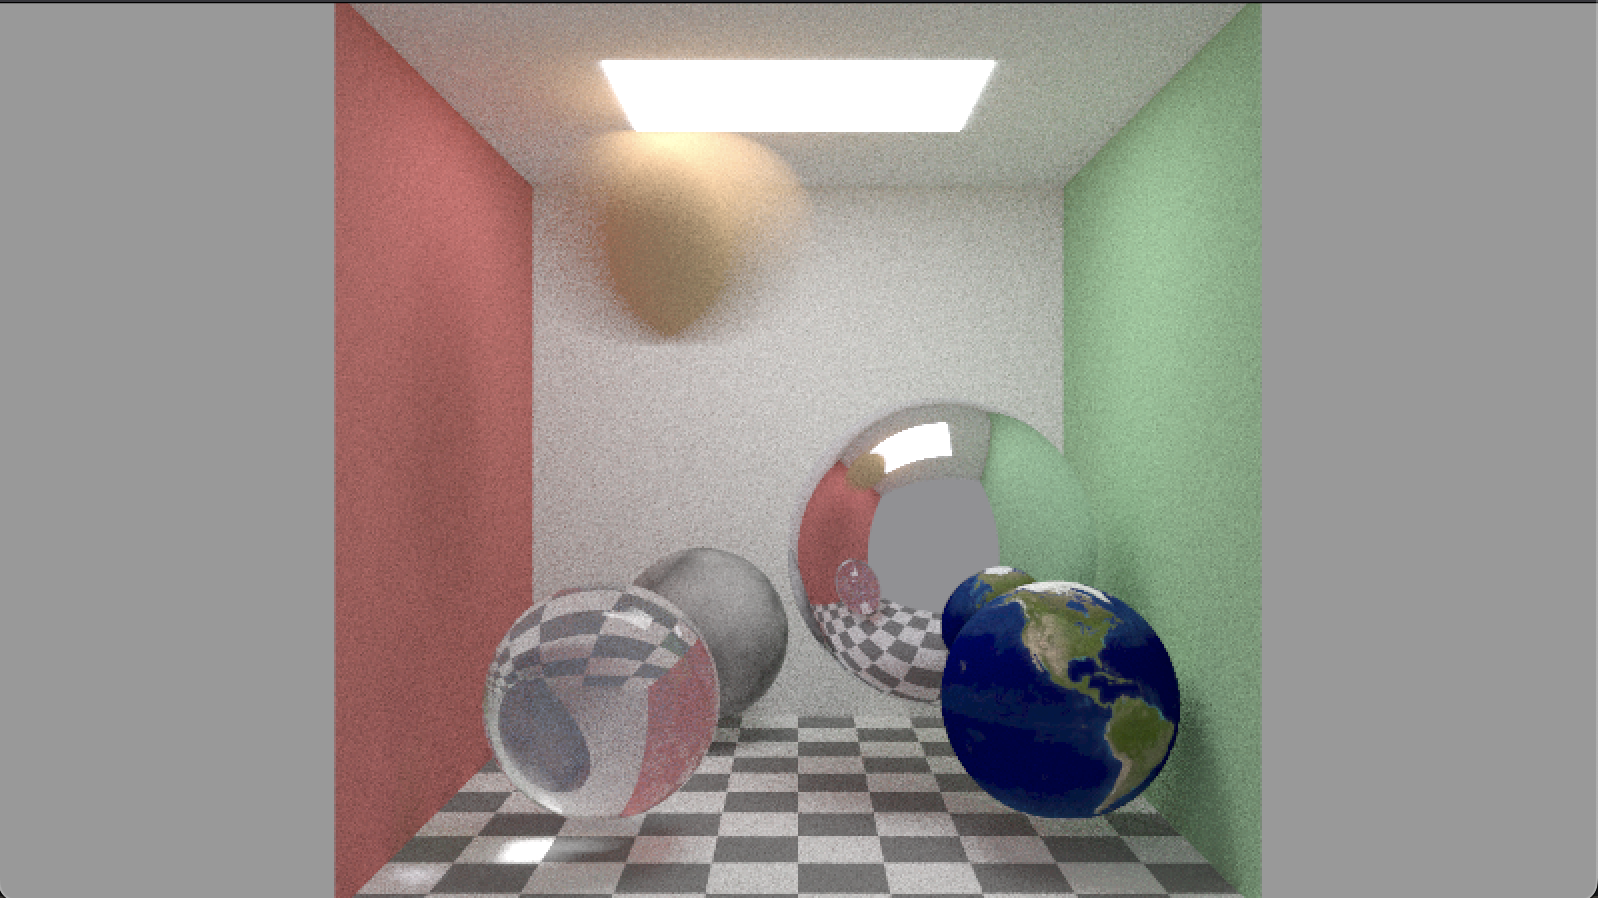
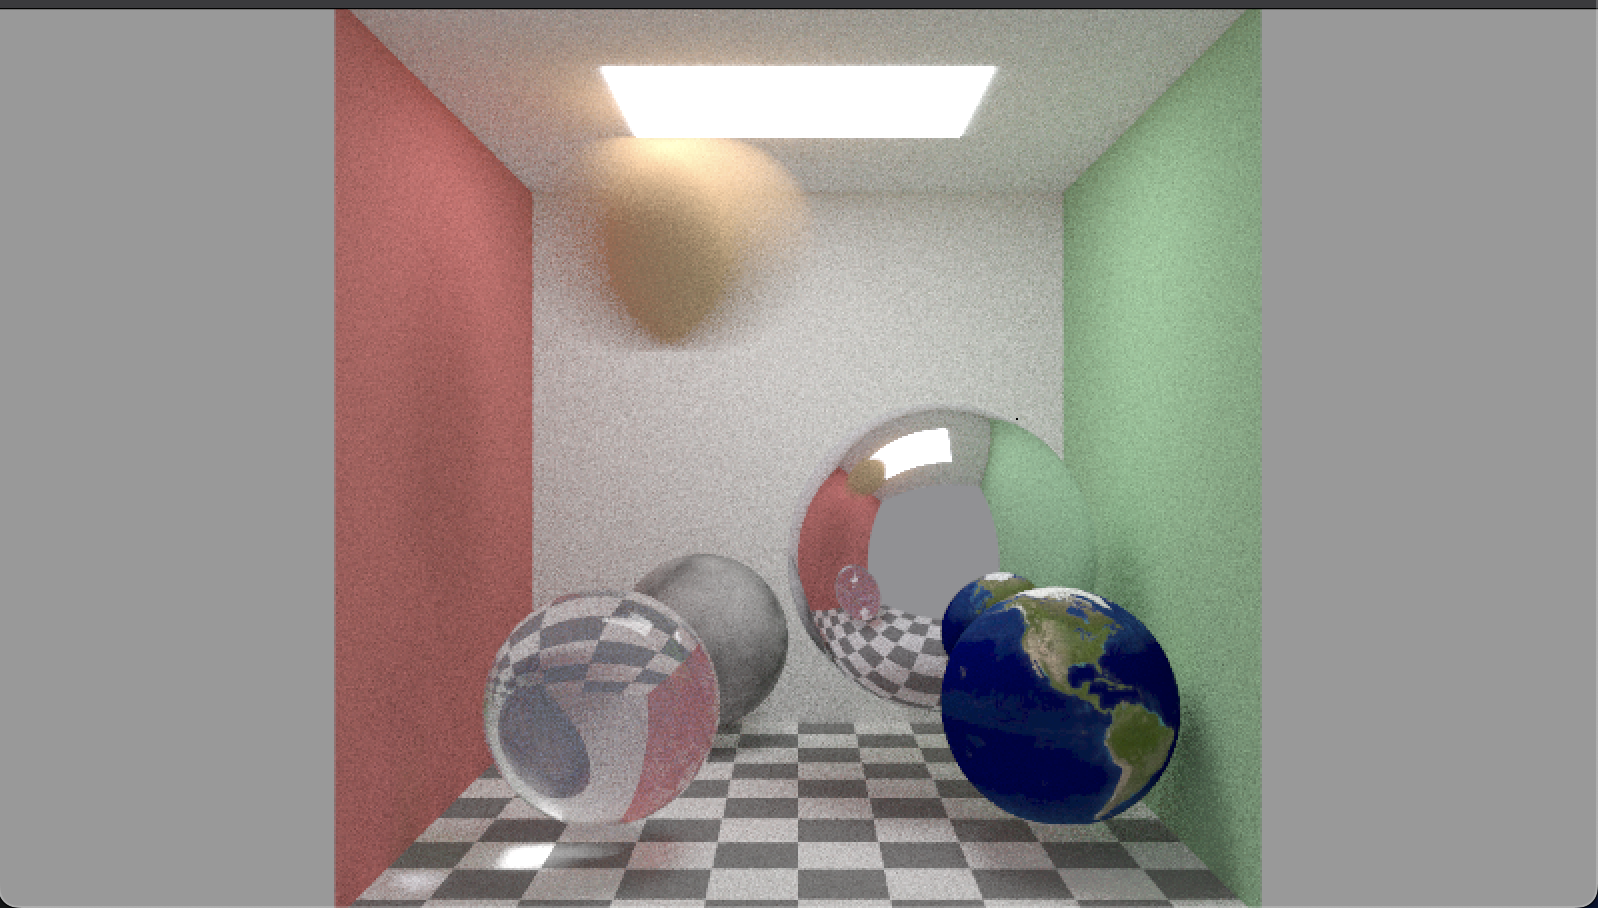
feat(shaders): implement stratified sampling for improved pixel sampling accuracy
- Added `sampleSquareStratified` function in `random.slang` to support sub-pixel stratification.
- Updated `camera.slang` to use stratified sampling with `getRay` adjustments.
- Modified rendering loop in `main.slang` to process stratified sub-samples per pixel.
- Extracted new constants for stratified sampling in `config.slang`.
- Removed unused `texture.hpp` include from `quad.hpp`.

diff --git a/src/rendering/quad.hpp b/src/rendering/quad.hpp
@@ -3,7 +3,6 @@
 #include <glm/glm.hpp>
 #include "aabb.hpp"
 #include "hittable.hpp"
-#include "texture.hpp"
 #include "material.hpp"
 
 struct GPUQuad {
